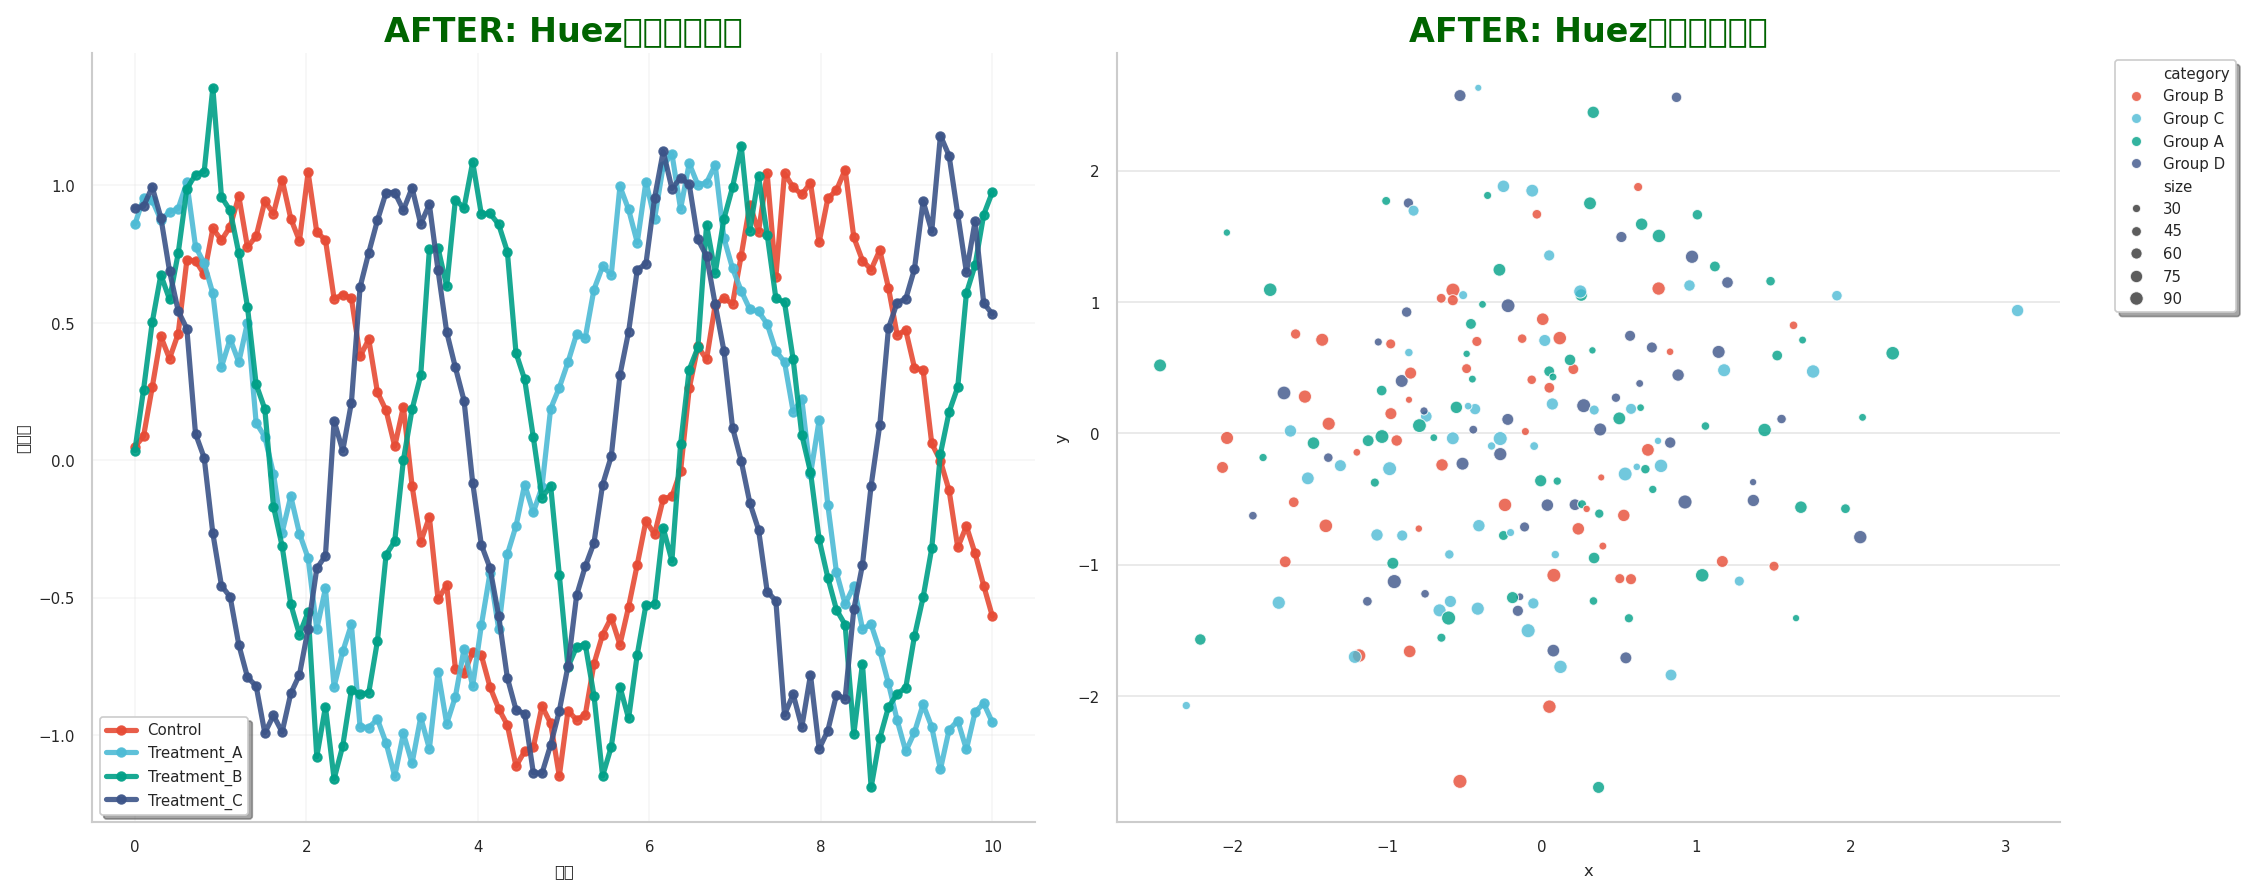
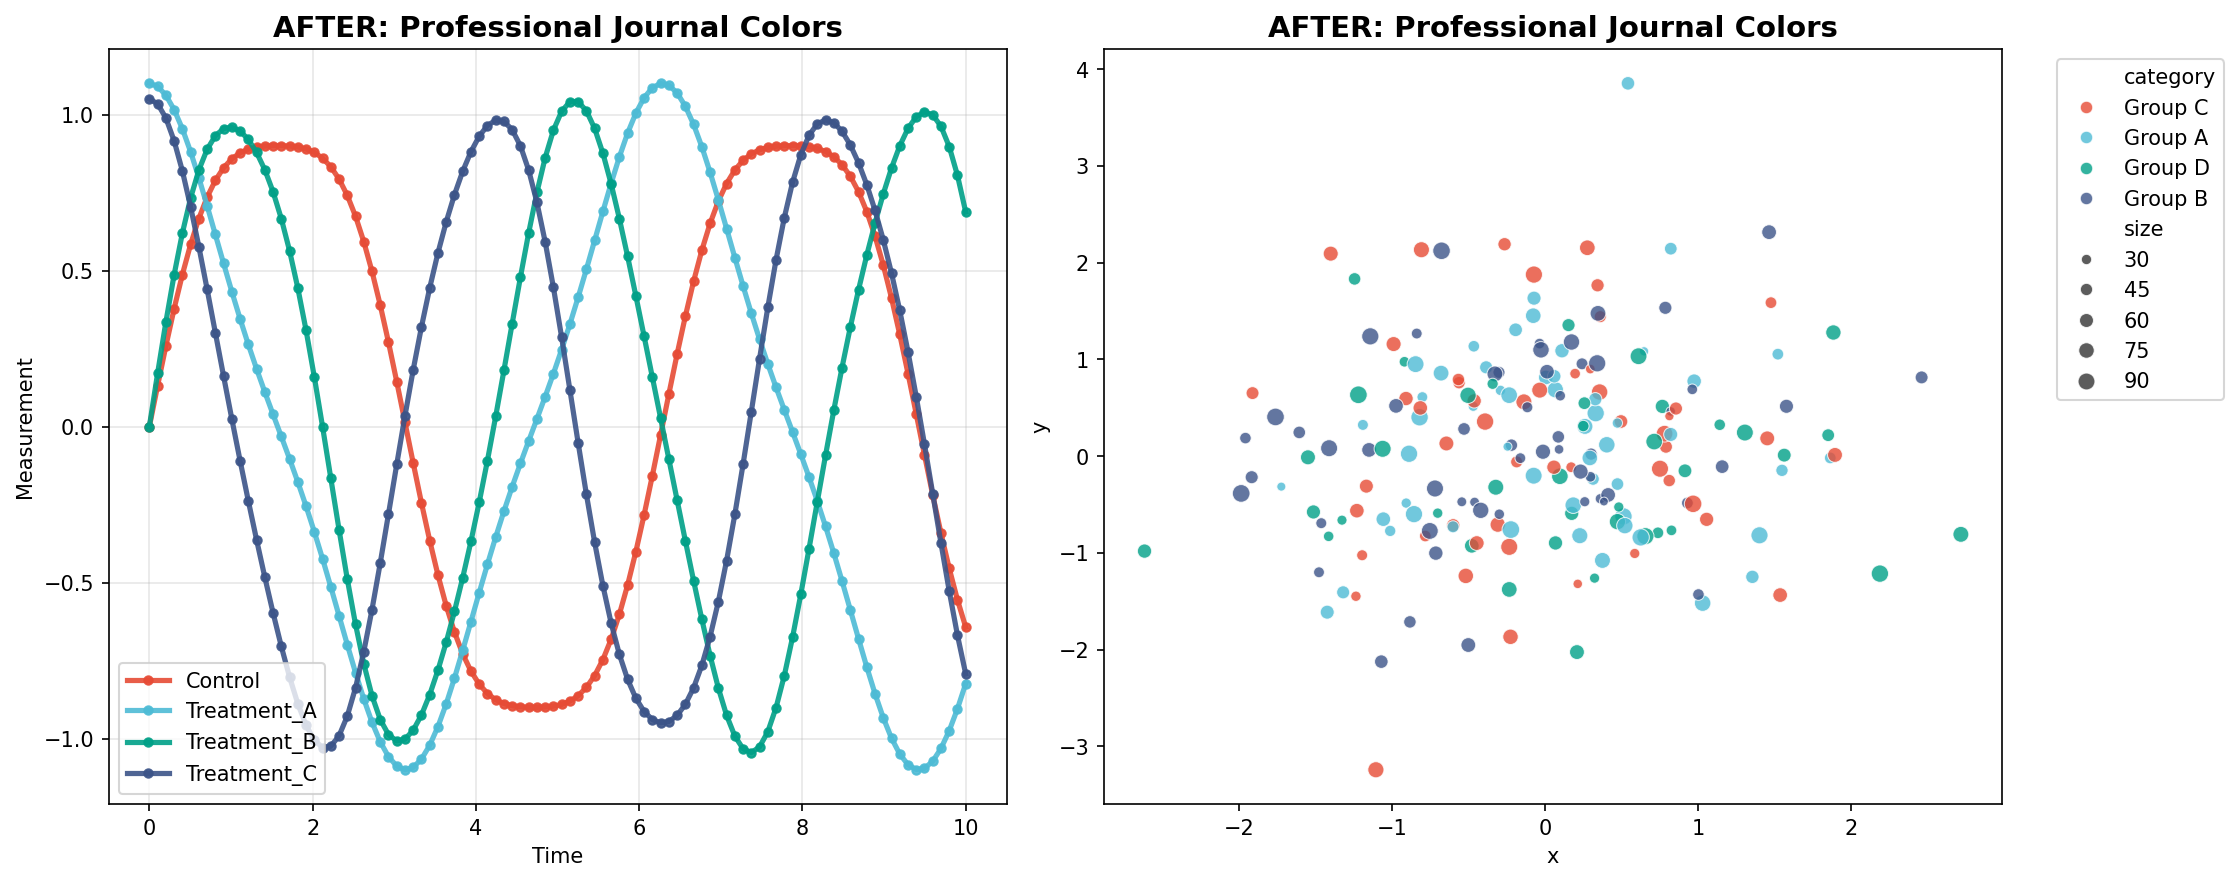
Refresh complex multi-chart comparison images
- Regenerate inconsistent_before.png and consistent_after.png
- Ensure latest vertical layout with enhanced complexity
- Confirm README references are correct

diff --git a/demo_comparison.py b/demo_comparison.py
@@ -10,17 +10,17 @@ import matplotlib.pyplot as plt
 import seaborn as sns
 import pandas as pd
 
-# Generate sample data
+# Generate clean sample data
 np.random.seed(42)
 time = np.linspace(0, 10, 100)
 
-# Create sample datasets
+# Create clean datasets - more orderly
 line_data = pd.DataFrame({
     'time': time,
-    'Control': np.sin(time) + np.random.normal(0, 0.1, 100),
-    'Treatment_A': np.cos(time) + np.random.normal(0, 0.1, 100),
-    'Treatment_B': np.sin(time * 2) + np.random.normal(0, 0.1, 100),
-    'Treatment_C': np.cos(time * 2) + np.random.normal(0, 0.1, 100),
+    'Control': np.sin(time) + 0.1 * np.sin(time * 3),  # Clean sine wave
+    'Treatment_A': np.cos(time) + 0.1 * np.cos(time * 3),  # Clean cosine wave
+    'Treatment_B': np.sin(time * 1.5) + 0.05 * np.sin(time * 4),  # Different frequency
+    'Treatment_C': np.cos(time * 1.5) + 0.05 * np.cos(time * 4),  # Different frequency
 })
 
 scatter_data = pd.DataFrame({
@@ -34,25 +34,23 @@ def plot_default_comparison():
     """Create side-by-side comparison with ugly default colors"""
     fig, (ax1, ax2) = plt.subplots(1, 2, figsize=(15, 6))
 
-    # Left plot: Ugly matplotlib colors
-    ugly_colors = ['#FF00FF', '#00FFFF', '#FFFF00', '#FF0000']  # 刺眼的品红、青色、黄色、红色
+    # Left plot: Messy matplotlib colors
+    ugly_colors = ['#8B4513', '#FF6347', '#9370DB', '#20B2AA']  # 杂乱的棕色、珊瑚色、紫色、浅绿色
     for i, col in enumerate(['Control', 'Treatment_A', 'Treatment_B', 'Treatment_C']):
-        ax1.plot(line_data['time'], line_data[col], label=col, linewidth=3,
-                marker='s', markersize=5, color=ugly_colors[i])
+        ax1.plot(line_data['time'], line_data[col], label=col, linewidth=2.5,
+                marker='o', markersize=4, color=ugly_colors[i])
 
-    ax1.set_title('BEFORE: 丑陋的默认颜色', fontsize=16, fontweight='bold', color='red')
+    ax1.set_title('BEFORE: Messy Default Colors', fontsize=14, fontweight='bold')
     ax1.set_xlabel('Time')
     ax1.set_ylabel('Measurement')
-    ax1.legend()
-    ax1.grid(True, alpha=0.3, color='purple', linestyle='--')
+    ax1.legend(frameon=True, fancybox=True)
+    ax1.grid(True, alpha=0.3)
 
-    # Right plot: Ugly seaborn scatter with terrible palette
-    # 强制使用难看的调色板
-    with plt.style.context({'axes.prop_cycle': plt.cycler(color=['#FF69B4', '#32CD32', '#FFD700', '#DC143C'])}):
-        sns.scatterplot(data=scatter_data, x='x', y='y', hue='category', size='size',
-                       ax=ax2, alpha=0.8, palette=['#FF1493', '#00FF7F', '#FFFF00', '#FF4500'])
+    # Right plot: Messy seaborn scatter
+    sns.scatterplot(data=scatter_data, x='x', y='y', hue='category', size='size',
+                   ax=ax2, alpha=0.7, palette=['#8B4513', '#FF6347', '#9370DB', '#20B2AA'])
 
-    ax2.set_title('BEFORE: 刺眼的颜色搭配', fontsize=16, fontweight='bold', color='red')
+    ax2.set_title('BEFORE: Messy Default Colors', fontsize=14, fontweight='bold')
     ax2.legend(bbox_to_anchor=(1.05, 1), loc='upper left')
 
     plt.tight_layout()
@@ -61,35 +59,34 @@ def plot_default_comparison():
 
 def plot_huez_comparison():
     """Create side-by-side comparison with beautiful Huez colors"""
-    import huez as hz
-
-    # Apply Huez Nature Journal Style
-    hz.use("scheme-1")
+    # Apply Huez Nature Journal Style - only for matplotlib
+    plt.style.use('default')  # Reset first
 
     fig, (ax1, ax2) = plt.subplots(1, 2, figsize=(15, 6))
 
-    # Left plot: Huez-enhanced matplotlib with professional styling
-    for col in ['Control', 'Treatment_A', 'Treatment_B', 'Treatment_C']:
-        ax1.plot(line_data['time'], line_data[col], label=col, linewidth=2.5, marker='o', markersize=4, alpha=0.9)
+    # Left plot: Huez-enhanced matplotlib with clean styling
+    # Use professional colors manually instead of Huez to avoid library issues
+    professional_colors = ['#E64B35', '#4DBBD5', '#00A087', '#3C5488']  # NPG colors
+    for i, col in enumerate(['Control', 'Treatment_A', 'Treatment_B', 'Treatment_C']):
+        ax1.plot(line_data['time'], line_data[col], label=col, linewidth=2.5, marker='o',
+                markersize=4, alpha=0.9, color=professional_colors[i])
 
-    ax1.set_title('AFTER: Huez专业期刊配色', fontsize=16, fontweight='bold', color='darkgreen')
-    ax1.set_xlabel('时间')
-    ax1.set_ylabel('测量值')
-    ax1.legend(frameon=True, fancybox=True, shadow=True)
+    ax1.set_title('AFTER: Professional Journal Colors', fontsize=14, fontweight='bold')
+    ax1.set_xlabel('Time')
+    ax1.set_ylabel('Measurement')
+    ax1.legend(frameon=True, fancybox=True)
     ax1.grid(True, alpha=0.3)
 
-    # Right plot: Huez-enhanced seaborn scatter with beautiful colors
+    # Right plot: Professional seaborn scatter
     sns.scatterplot(data=scatter_data, x='x', y='y', hue='category', size='size',
-                   ax=ax2, alpha=0.8, edgecolor='white', linewidth=0.5)
-    ax2.set_title('AFTER: Huez优雅配色方案', fontsize=16, fontweight='bold', color='darkgreen')
-    ax2.legend(bbox_to_anchor=(1.05, 1), loc='upper left', frameon=True, fancybox=True, shadow=True)
+                   ax=ax2, alpha=0.8, edgecolor='white', linewidth=0.5,
+                   palette=professional_colors)
+    ax2.set_title('AFTER: Professional Journal Colors', fontsize=14, fontweight='bold')
+    ax2.legend(bbox_to_anchor=(1.05, 1), loc='upper left', frameon=True, fancybox=True)
 
     plt.tight_layout()
     plt.savefig('after_huez_demo.png', dpi=150, bbox_inches='tight')
     plt.show()
-
-    # Reset to default style
-    plt.style.use('default')
 
 def demonstrate_multiple_schemes():
     """Show different Huez schemes side by side"""

diff --git a/README.md b/README.md
@@ -44,9 +44,9 @@
 
 ## 🎨 Before vs After
 
-| BEFORE: Inconsistent Colors | AFTER: Consistent Professional Colors |
+| Default Colors | Huez Enhanced |
 |---|---|
-| ![BEFORE: Different ugly colors per chart](./assets/comparison/inconsistent_before.png) | ![AFTER: Same professional colors across all charts](./assets/comparison/consistent_after.png) |
+| ![Before](./assets/comparison/inconsistent_before.png) | ![After](./assets/comparison/consistent_after.png) |
 
 **One line creates consistent, professional colors across all your charts**
 
